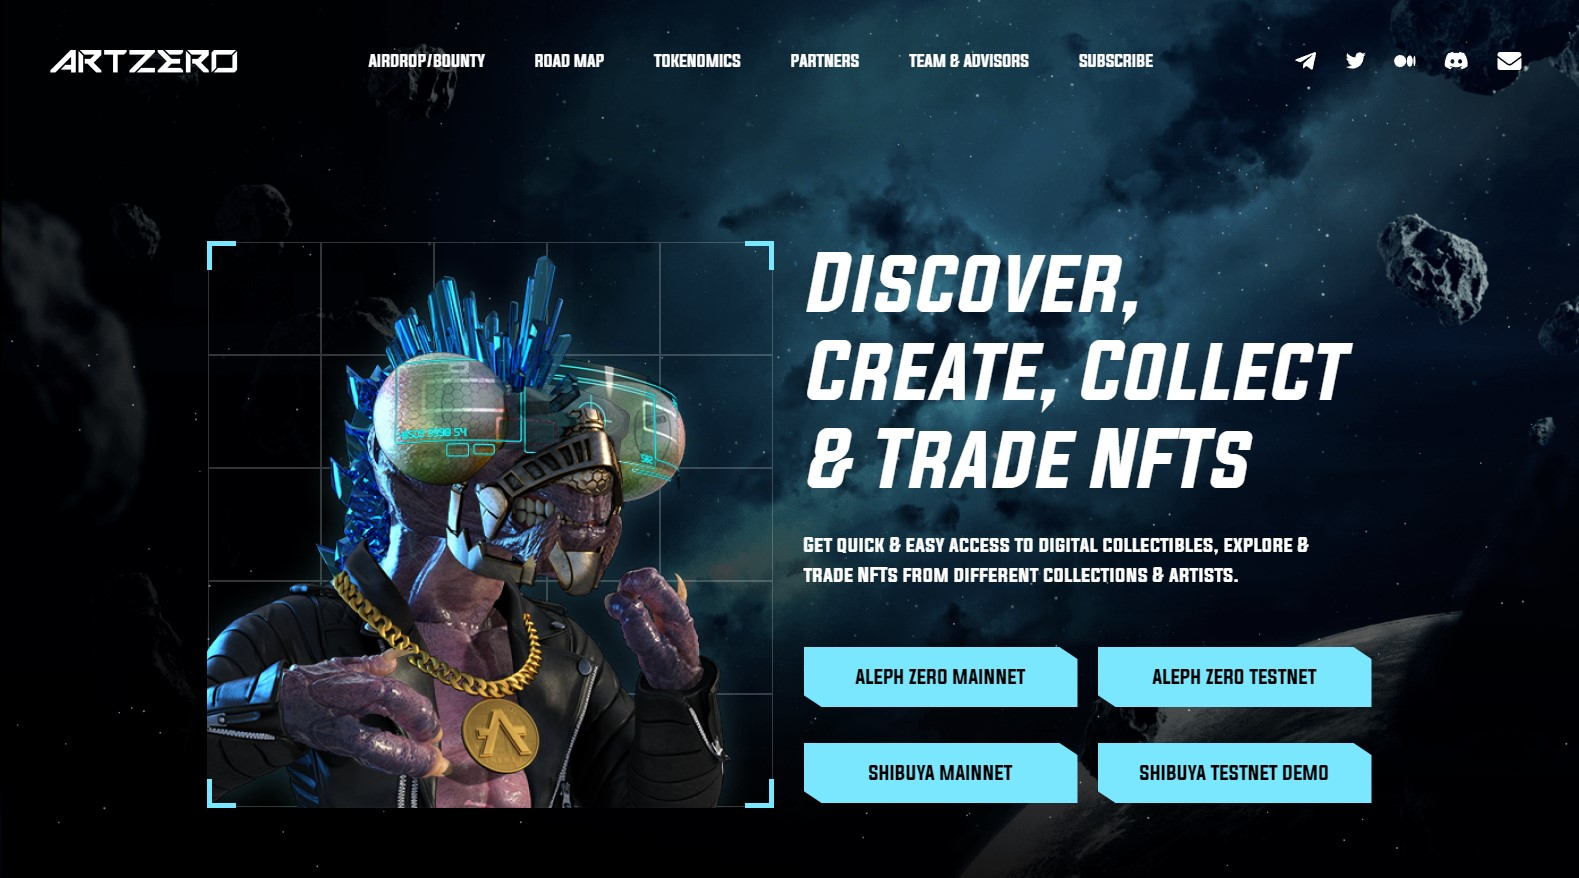
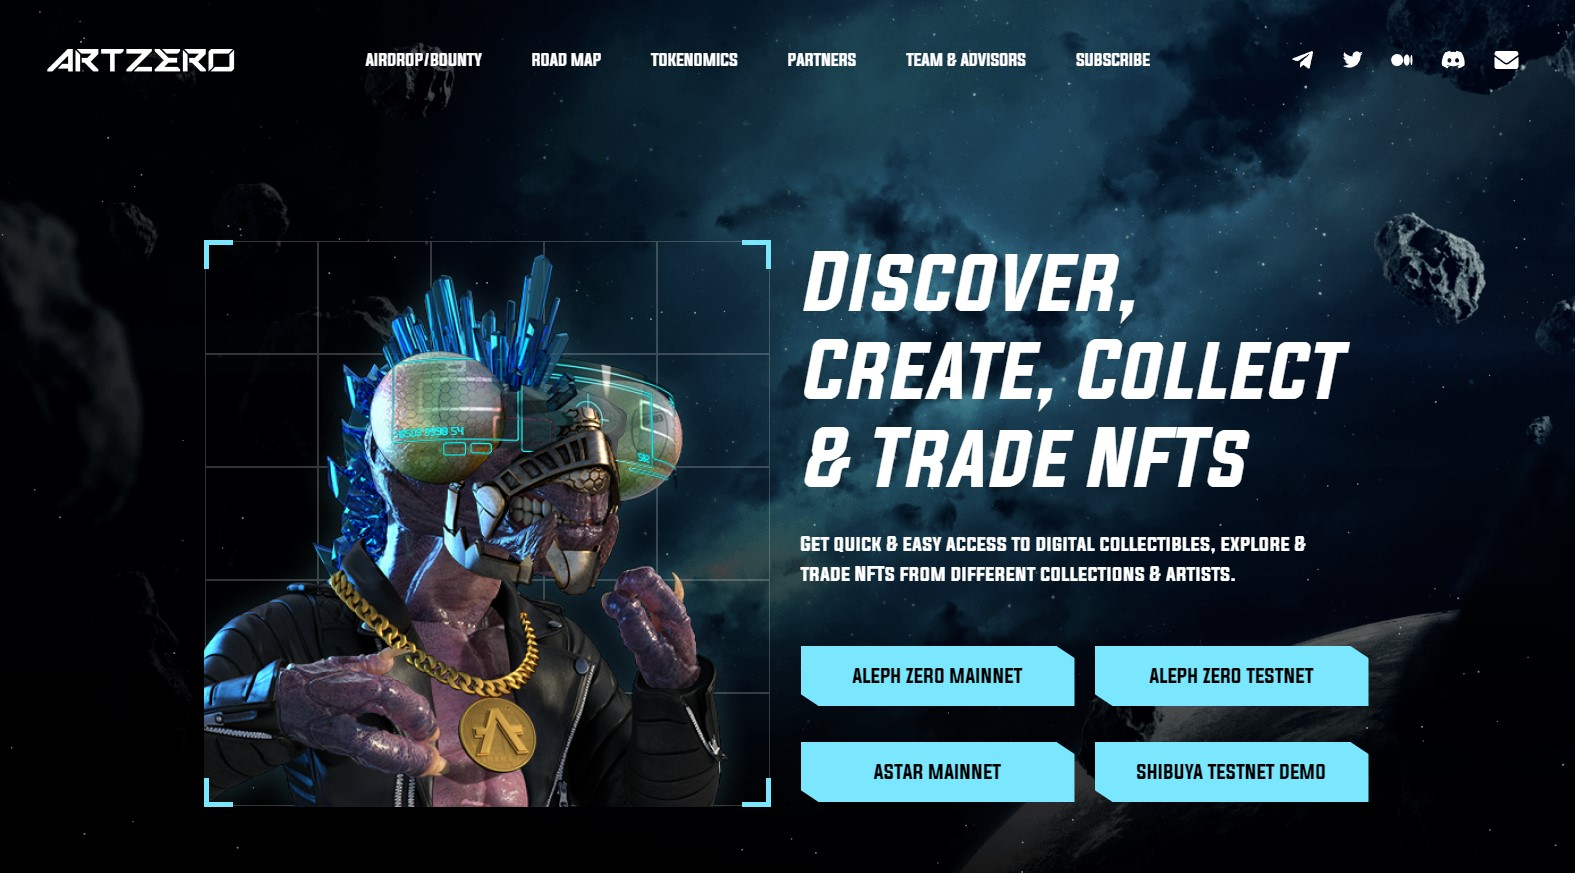
Update link to PMP collection & preview images

diff --git a/src/pages/home/index.js b/src/pages/home/index.js
@@ -278,7 +278,7 @@ const HomePage = () => {
           <div className="testnet-button-wrapper-4">
             <div className="testnet-button-wrapper">
               <a
-                href="http://a0.artzero.io/#/launchpad/5F4fBoxKBwXZ5fprZPtkhXtesR7PXEWny6KqwWEHbZWXkg55"
+                href="https://a0.artzero.io/#/collection/5F4fBoxKBwXZ5fprZPtkhXtesR7PXEWny6KqwWEHbZWXkg55?is_for_sale=true"
                 className="button button-animation"
               >
                 <span className="button-text">Aleph Zero Mainnet</span>
@@ -299,7 +299,7 @@ const HomePage = () => {
                 href="https://astar.artzero.io/"
                 className="button button-animation"
               >
-                <span className="button-text">Shibuya Mainnet</span>
+                <span className="button-text">Astar Mainnet</span>
               </a>
             </div>
 
